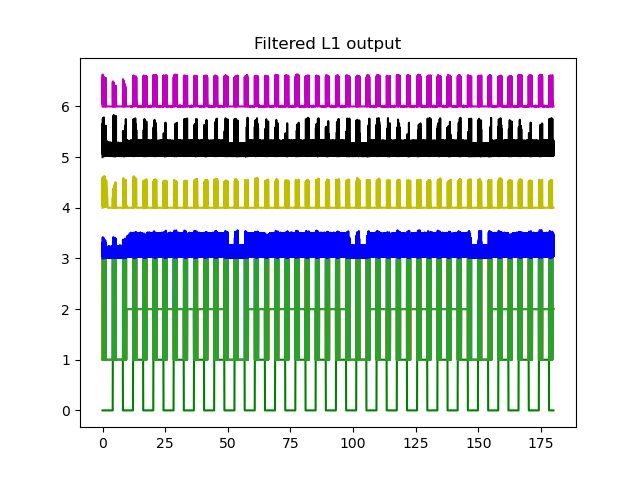
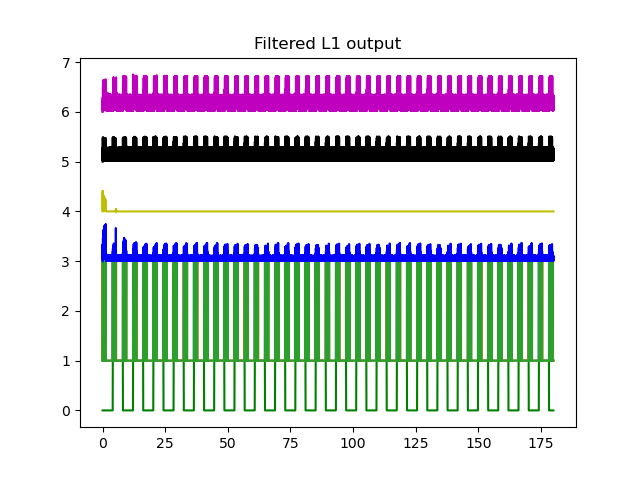
reran Prob Trans False

diff --git a/three-layers-feedback.py b/three-layers-feedback.py
@@ -44,16 +44,16 @@ def phase_automata(driving_symbol='0', number_of_symbols=3, id_of_starting_symbo
     return code, ending_state
 
 
-reseed = 91274 # 91264 # 91254  # 91273
+reseed = 91323 #91280 #91274 # 91264 # 91254  # 91273
 good = False
 number_of_samples = 6
 ts = 45  # number of timesteps to hold a driving symbol constant for.
-
-threeChannelsOF1, end_channel = phase_automata(driving_symbol="1", probability_of_transition=True, timesteps=ts)
+pb = False
+threeChannelsOF1, end_channel = phase_automata(driving_symbol="1", probability_of_transition=pb, timesteps=ts)
 padded_zeros = np.zeros((3, ts * 2), dtype=float)
 padded_zeros = padded_zeros - 1.0
 threeChannels1 = np.concatenate((threeChannelsOF1, padded_zeros), axis=1)
-threeChannelsOF0, end_channel0 = phase_automata(driving_symbol="0", probability_of_transition=True, timesteps=ts)
+threeChannelsOF0, end_channel0 = phase_automata(driving_symbol="0", probability_of_transition=pb, timesteps=ts)
 threeChannels0 = np.concatenate((threeChannelsOF0, padded_zeros), axis=1)
 labels0 = np.zeros((ts * 3, 1), dtype=float)
 labels1 = np.ones((ts * 3, 1), dtype=float)
@@ -61,7 +61,7 @@ bothLabels = np.concatenate((labels0, labels1), axis=0)
 bothPatterns = np.concatenate((threeChannels0, threeChannels1), axis=1)
 
 plt.figure()
-plt.title("Input Pattern and Label Example ProbTran:True PaddedZeros:True")
+plt.title("Input Pattern and Label Example ProbTran:"+str(pb)+" PaddedZeros:True")
 t = np.arange(ts*3*2)
 plt.xlabel('ts (Timestep)' )
 plt.ylabel('Value')
@@ -70,13 +70,12 @@ plt.plot(t,bothPatterns[1],color="green",label="pattern C2")
 plt.plot(t,bothPatterns[2],color="orange",label="pattern C3")
 plt.plot(t,bothLabels+2.0,color="black",label="label")
 plt.legend()
-plt.savefig("fig/input_pattern_example_probTran_True_padded_zeros_true.png")
+plt.savefig("fig/input_pattern_example_probTran_"+str(pb)+"_padded_zeros_true.png")
 i = 1
 while i < number_of_samples:
-    threeChannelsOF1, end_channel = phase_automata(driving_symbol="1", probability_of_transition=True, timesteps=ts)
-    padded_zeros = np.zeros((3, ts * 2), dtype=float)
+    threeChannelsOF1, end_channel = phase_automata(driving_symbol="1", probability_of_transition=pb, timesteps=ts)
     threeChannels1 = np.concatenate((threeChannelsOF1, padded_zeros), axis=1)
-    threeChannelsOF0, end_channel0 = phase_automata(driving_symbol="0", probability_of_transition=True, timesteps=ts)
+    threeChannelsOF0, end_channel0 = phase_automata(driving_symbol="0", probability_of_transition=pb, timesteps=ts)
     threeChannels0 = np.concatenate((threeChannelsOF0, padded_zeros), axis=1)
     labels0 = np.zeros((ts * 3, 1), dtype=float)
     labels1 = np.ones((ts * 3, 1), dtype=float)
@@ -222,7 +221,7 @@ while not good:
             best_neuron_value = sum
         print(best_neuron_value, best_neuron_index, reseed)
         i += 1
-    if (best_neuron_value < 30000):
+    if (best_neuron_value < 12000):
         good = True
     else:
         reseed += 1
